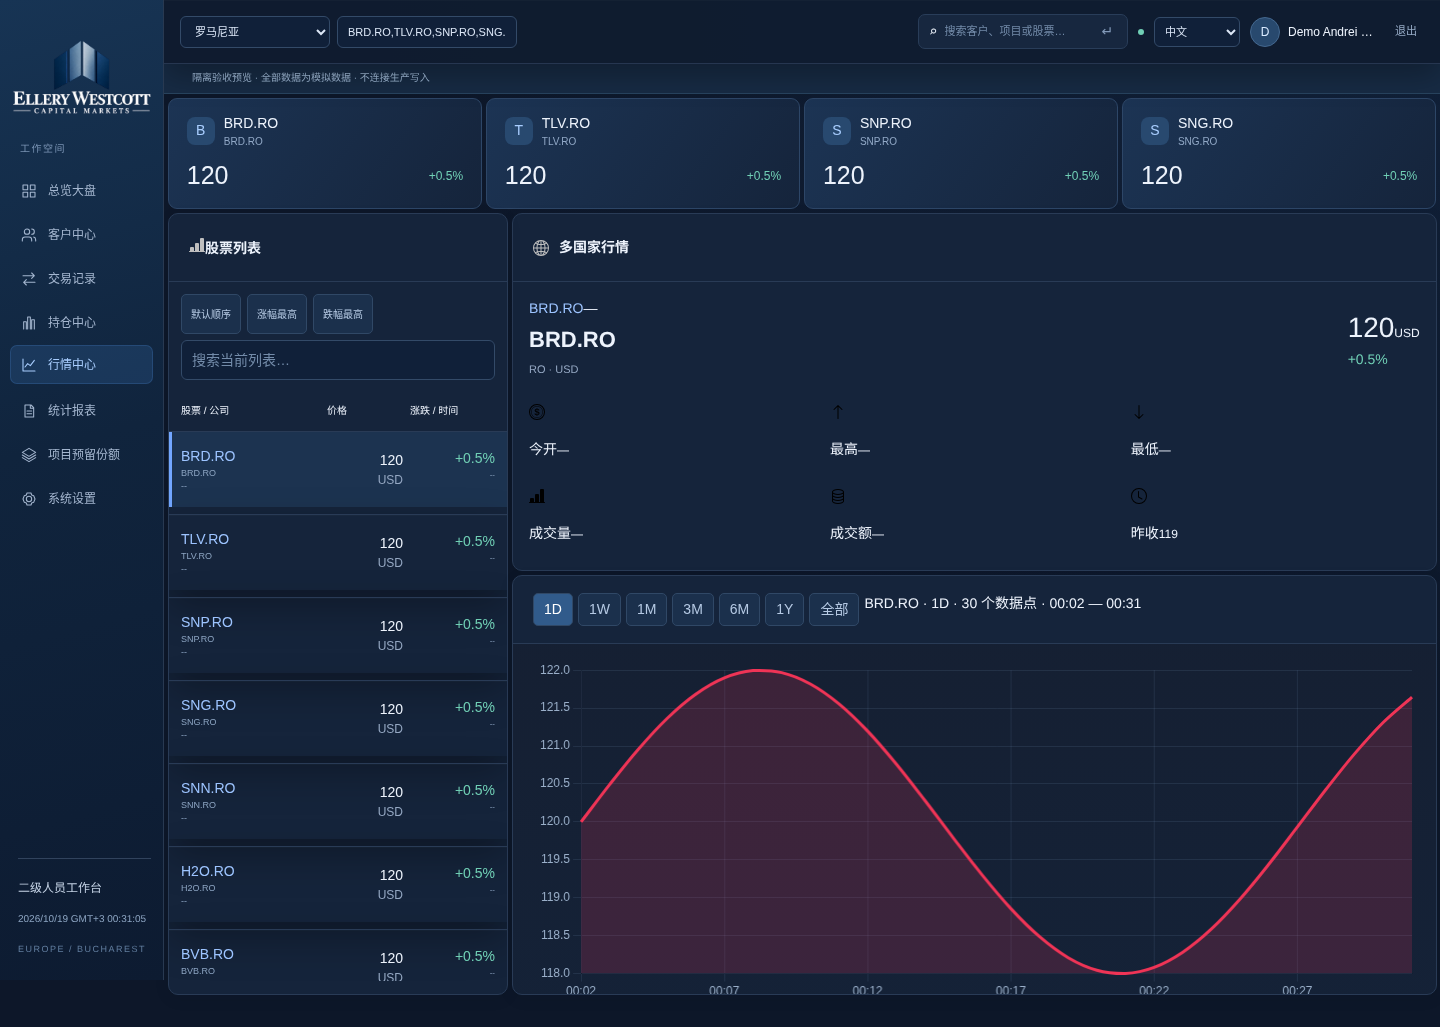
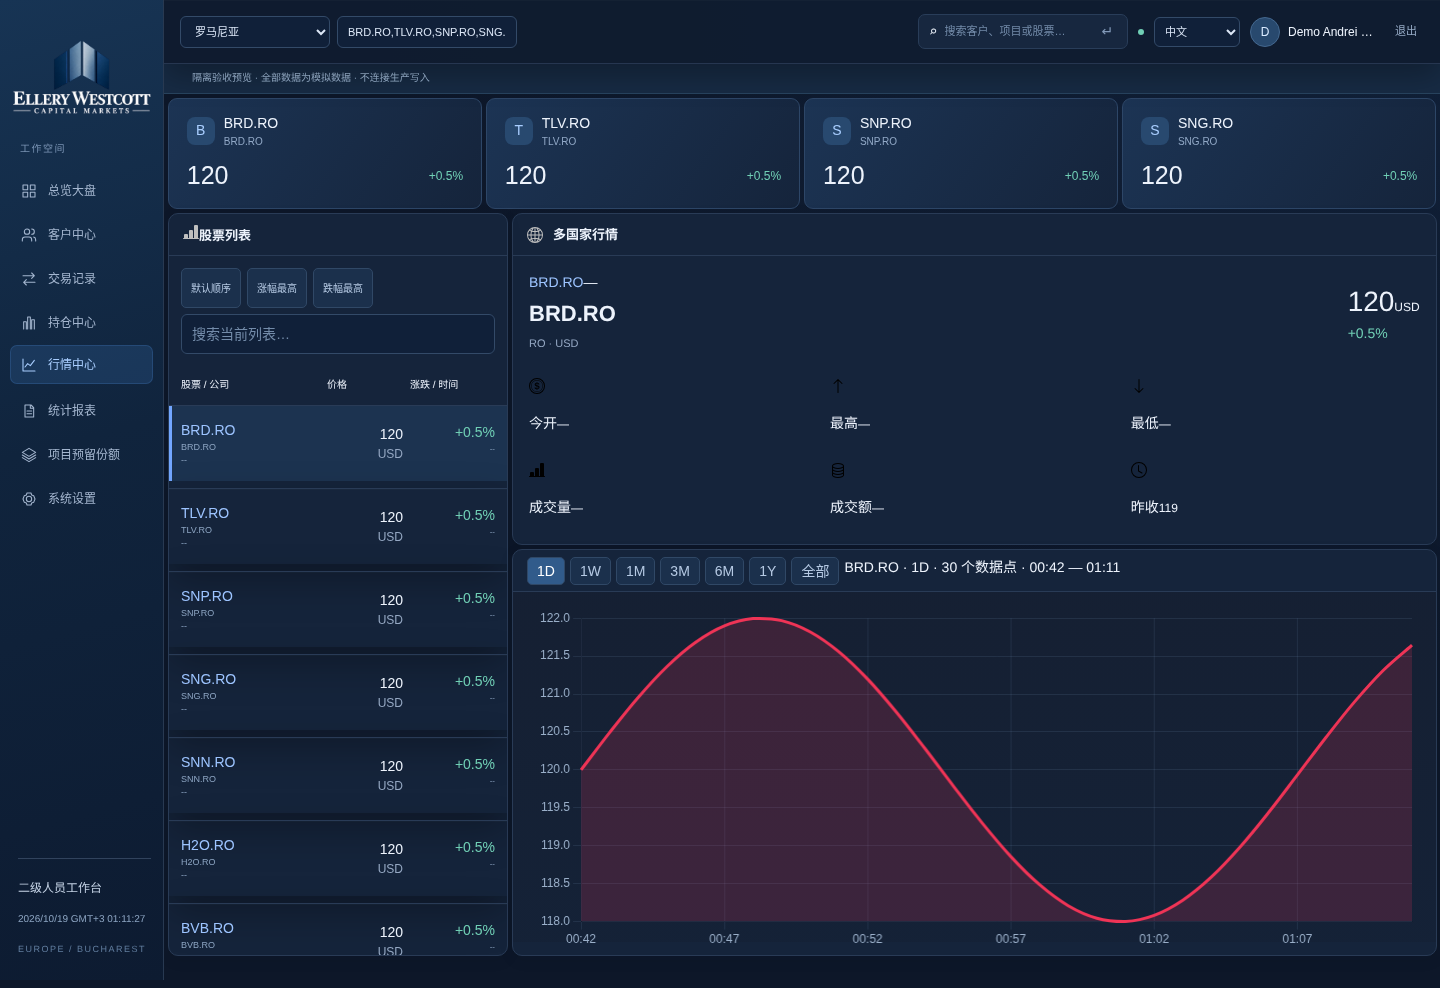
Compact section headers, align descriptions on the right and enlarge chart areas (2.2.2)

diff --git a/ellery-theme.css b/ellery-theme.css
@@ -282,3 +282,34 @@ body :is(#root#root#root#root#root#root#root#root#root#root#root#root,#modalRoot
 }
 
 body :is(#root#root#root#root#root#root#root#root#root#root#root#root,#modalRoot#modalRoot#modalRoot#modalRoot#modalRoot#modalRoot#modalRoot#modalRoot#modalRoot#modalRoot#modalRoot#modalRoot){& .referenceMarketRow[hidden]{display:none!important;}}
+
+/* 2.2.2 compact single-line section headings; preserve space for charts. */
+body :is(#root#root#root#root#root#root#root#root#root#root#root#root,#modalRoot#modalRoot#modalRoot#modalRoot#modalRoot#modalRoot#modalRoot#modalRoot#modalRoot#modalRoot#modalRoot#modalRoot){
+ & :is(.panelHead,.projectPanelHeading){min-height:42px!important;height:auto!important;padding:6px 14px!important;gap:10px!important;flex-wrap:nowrap!important;}
+ & .studioTrend .panelHead{min-height:42px!important;padding:6px 14px!important;}
+ & :is(.panelHead,.projectPanelHeading)>div:first-child:has(>h2){display:flex!important;flex:1 1 auto!important;align-items:center!important;justify-content:space-between!important;gap:12px!important;min-width:0!important;}
+ & :is(.panelHead,.projectPanelHeading) h2{flex:0 1 auto!important;min-width:0!important;font-size:13px!important;line-height:20px!important;white-space:nowrap!important;margin:0!important;}
+ & :is(.panelHead,.projectPanelHeading) p{flex:1 1 auto!important;min-width:0!important;margin:0!important;line-height:18px!important;text-align:right!important;white-space:nowrap!important;overflow:hidden!important;text-overflow:ellipsis!important;}
+ & .panelSubtitleRow{display:flex!important;align-items:center!important;justify-content:flex-end!important;flex:1 1 auto!important;gap:9px!important;min-width:0!important;margin:0!important;}
+ & :is(.panelHead,.projectPanelHeading) :is(.btn,.input,.select){min-height:28px!important;height:28px!important;padding:3px 9px!important;font-size:11px!important;}
+ & .projectPanelHeading .projectInternalLabel{font-size:11px!important;flex:none!important;color:#8da7c7!important;}
+ & .projectTrendLegend{display:flex!important;align-items:center!important;justify-content:flex-end!important;gap:9px!important;flex:0 1 auto!important;font-size:10px!important;white-space:nowrap!important;}
+ & .projectTrendLegend>span{display:inline-flex!important;align-items:center!important;gap:5px!important;}
+ & .projectTrendLegend i{display:inline-block!important;width:12px!important;height:3px!important;background:#8eafd0!important;}
+ & .projectTrendLegend>span+span i{background:var(--project-accent)!important;}
+ & .projectTrendChart{height:clamp(300px,36vh,420px)!important;min-height:300px!important;max-height:none!important;flex:0 0 auto!important;padding:8px 10px 10px!important;}
+ & .projectChartEmpty{display:grid!important;place-items:center!important;height:100%!important;color:#829ab9!important;font-size:12px!important;}
+ & .projectOverviewLower{align-items:start!important;}
+ & .projectSummaryMetrics{padding:10px 14px!important;gap:24px!important;}
+ & .projectSummaryMetrics>div{display:flex!important;flex-direction:row!important;align-items:baseline!important;gap:10px!important;}
+ & .projectSummaryMetrics span{font-size:11px!important;color:#8ea6c5!important;}
+ & .projectSummaryMetrics strong{font-size:16px!important;}
+ & .studioChart{height:245px!important;padding-top:8px!important;}
+ & .studioChartLegend{padding:0 14px!important;}
+}
+@media(max-width:760px){body :is(#root#root#root#root#root#root#root#root#root#root#root#root,#modalRoot#modalRoot#modalRoot#modalRoot#modalRoot#modalRoot#modalRoot#modalRoot#modalRoot#modalRoot#modalRoot#modalRoot){& :is(.panelHead,.projectPanelHeading){gap:7px!important;padding:6px 10px!important;}& :is(.panelHead,.projectPanelHeading) h2{font-size:11px!important;}& :is(.panelHead,.projectPanelHeading) p{font-size:9px!important;}& .projectTrendPanel .projectPanelHeading{flex-wrap:wrap!important;}& .projectTrendPanel .projectPanelHeading>div:first-child{flex:1 1 100%!important;}& .projectTrendLegend{margin-right:auto!important;}& .projectTrendChart{min-height:280px!important;height:280px!important;}& .studioChart{height:230px!important;}& .panelSubtitleRow .inlineLegend{font-size:9px!important;}}}
+
+body :is(#root#root#root#root#root#root#root#root#root#root#root#root,#modalRoot#modalRoot#modalRoot#modalRoot#modalRoot#modalRoot#modalRoot#modalRoot#modalRoot#modalRoot#modalRoot#modalRoot){& :is(.panelHead,.projectPanelHeading) button{min-height:28px!important;height:28px!important;padding:3px 9px!important;}& .panelHead .studioIntervals{padding:2px!important;}& .panelHead .studioIntervals button{min-height:24px!important;height:24px!important;padding:2px 7px!important;}}
+
+body :is(#root#root#root#root#root#root#root#root#root#root#root#root,#modalRoot#modalRoot#modalRoot#modalRoot#modalRoot#modalRoot#modalRoot#modalRoot#modalRoot#modalRoot#modalRoot#modalRoot){& .headerChartLegend{display:inline-flex!important;align-items:center!important;gap:9px!important;flex:0 0 auto!important;white-space:nowrap!important;margin:0!important;font-size:10px!important;}& .headerChartLegend>span{display:inline-flex!important;align-items:center!important;gap:5px!important;}& .headerChartLegend i{display:inline-block!important;width:12px!important;height:3px!important;flex:none!important;}& .monthlyReport #reportMonth{width:130px!important;flex:0 0 130px!important;min-width:0!important;}& .monthlyReport #reportCurrency{width:64px!important;flex:0 0 64px!important;min-width:0!important;}& .studioProjects .projectLauncherHead{min-height:42px!important;height:42px!important;padding:6px 14px!important;}& .studioProjects .projectLauncherHead h2{font-size:13px!important;line-height:20px!important;}}
+@media(max-width:760px){body :is(#root#root#root#root#root#root#root#root#root#root#root#root,#modalRoot#modalRoot#modalRoot#modalRoot#modalRoot#modalRoot#modalRoot#modalRoot#modalRoot#modalRoot#modalRoot#modalRoot){& .monthlyReport .panelHead{flex-wrap:wrap!important;}& .monthlyReport .panelHead h2{flex:1 1 100%!important;}& .monthlyReport .headerChartLegend{margin-left:auto!important;gap:5px!important;}}}

diff --git a/allocation-projects.js b/allocation-projects.js
@@ -66,7 +66,7 @@ function companyHeader(el,p){
  if(!el||!symbol)return;
  fetch('/api/security-info?symbol='+encodeURIComponent(symbol)).then(r=>r.ok?r.json():null).then(info=>{
   if(!el.isConnected||String(info?.symbol||'').toUpperCase()!==symbol)return;
-  const company=info.companyName||info.stockName;if(company&&company!==symbol)el.textContent=[company,info.exchange,info.currency].filter(Boolean).join(' · ');
+  const company=info.companyName||info.stockName;if(company&&company!==symbol){el.textContent=[company,info.exchange,info.currency].filter(Boolean).join(' · ');el.title=el.textContent;}
  }).catch(()=>{});
 }
 export async function renderProjectPresentation(ctx){

diff --git a/index.html b/index.html
@@ -7,11 +7,11 @@
 <script src="/vendor-chart.js"></script>
 <link rel="stylesheet" href="/styles.css">
 <link rel="stylesheet" href="/delivery-layout.css">
-<link rel="stylesheet" href="/ellery-theme.css?v=2.2.1">
+<link rel="stylesheet" href="/ellery-theme.css?v=2.2.2">
 </head>
 <body>
 <div id="root"></div>
 <div id="toast" class="hidden"></div>
-<script type="module" src="/app.js?v=2.2.1"></script>
+<script type="module" src="/app.js?v=2.2.2"></script>
 </body>
 </html>

diff --git a/DESKTOP-RELEASE.zh-CN.md b/DESKTOP-RELEASE.zh-CN.md
@@ -1,4 +1,4 @@
-# Ellery Westcott CRM 桌面版 2.2.1（独立后端）
+# Ellery Westcott CRM 桌面版 2.2.2（独立后端）
 
 基于 `dalulu05168/-` 提交 `4d710588bab46e16fd18c7d6940c15b790f419b4` 的源码复制开发。上传的 Brantone-Veylor-CRM-Setup-1.0.7.exe 因附件读取限制尚未提取，因此不声称与 1.0.7 安装包逐文件一致。
 
@@ -17,7 +17,7 @@
 
 开发机使用 Node.js 22，执行 `npm ci`，`npm run desktop`。
 
-Windows 安装包：`npm run build:win`。产物为 `dist/Ellery-Westcott-CRM-Setup-2.2.1.exe`。NSIS 安装器支持选择空目录或现有本应用目录、创建桌面与开始菜单快捷方式及卸载。卸载保留 AppData 下的应用用户数据。
+Windows 安装包：`npm run build:win`。产物为 `dist/Ellery-Westcott-CRM-Setup-2.2.2.exe`。NSIS 安装器支持选择空目录或现有本应用目录、创建桌面与开始菜单快捷方式及卸载。卸载保留 AppData 下的应用用户数据。
 
 应用需要互联网连接到配置的 Supabase 服务和行情数据源。所有用户需要有效授权账号；界面代码不提供额外数据库权限。
 
@@ -40,3 +40,5 @@ Windows 安装包：`npm run build:win`。产物为 `dist/Ellery-Westcott-CRM-Se
 - 历史奶白主题的视觉契约保留在 `tests/legacy-design/`，与当前改版要求冲突，已不纳入根目录测试集。
 - Windows 构建流程增加安装器静默安装、安装后程序启动、登录页/SDK/Logo 加载、截图和卸载检查；仅通过后上传下载。尚未完成人工全业务及升级验收。
 - 未配置 Windows 代码签名证书，安装器未签名。
+
+2.2.2：标题说明改为右侧同行对齐，标题栏压缩至约 42px，增加趋势图展示高度。参见 docs/UI-2.2.2.md。

diff --git a/docs/UI-2.2.2.md b/docs/UI-2.2.2.md
@@ -1,0 +1,9 @@
+# Compact section headings — desktop 2.2.2
+
+Section descriptions now appear to the right of their titles, vertically aligned on one row. Panel and project headers use a 42px desktop height instead of the previous 68px minimum. Long company descriptions retain their complete text in a tooltip.
+
+Reduced header padding and compacted header buttons, month/currency filters and legends. Report legends now use an inline layout so they cannot expand the header vertically. Narrow screens wrap controls as needed.
+
+Project trend height increased from 240px to clamp(300px,36vh,420px), approximately 353px at 1440×980. Dashboard chart height increased from 205px to 245px. Project participant/date metadata uses a compact horizontal layout. Transparent logo, gold/green/blue circular progress and 1 CSS mm module gaps are preserved.
+
+Measurements checked dashboard, projects, reports and settings: visible desktop section headers are 42px, title/description vertical centres align, and no page overflow occurs. All 22 automated tests passed. Demo screenshots contain simulated data. Backend configuration, independent database and live business records were not modified.
